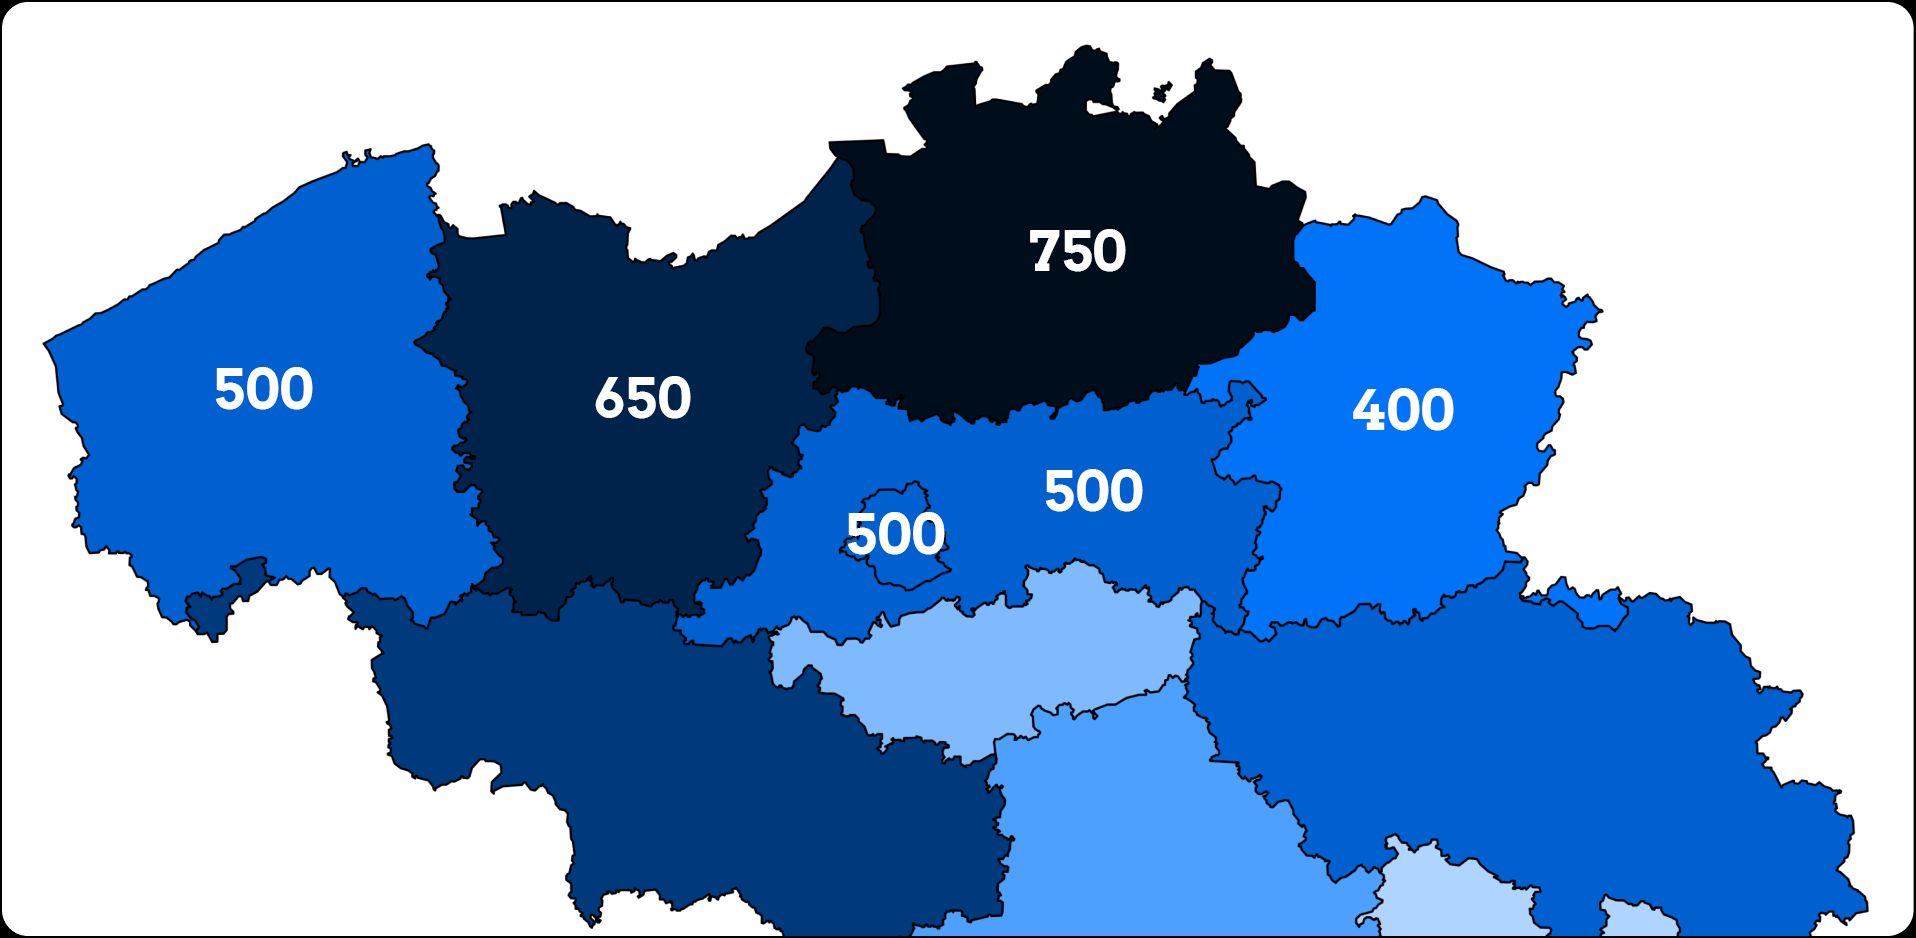
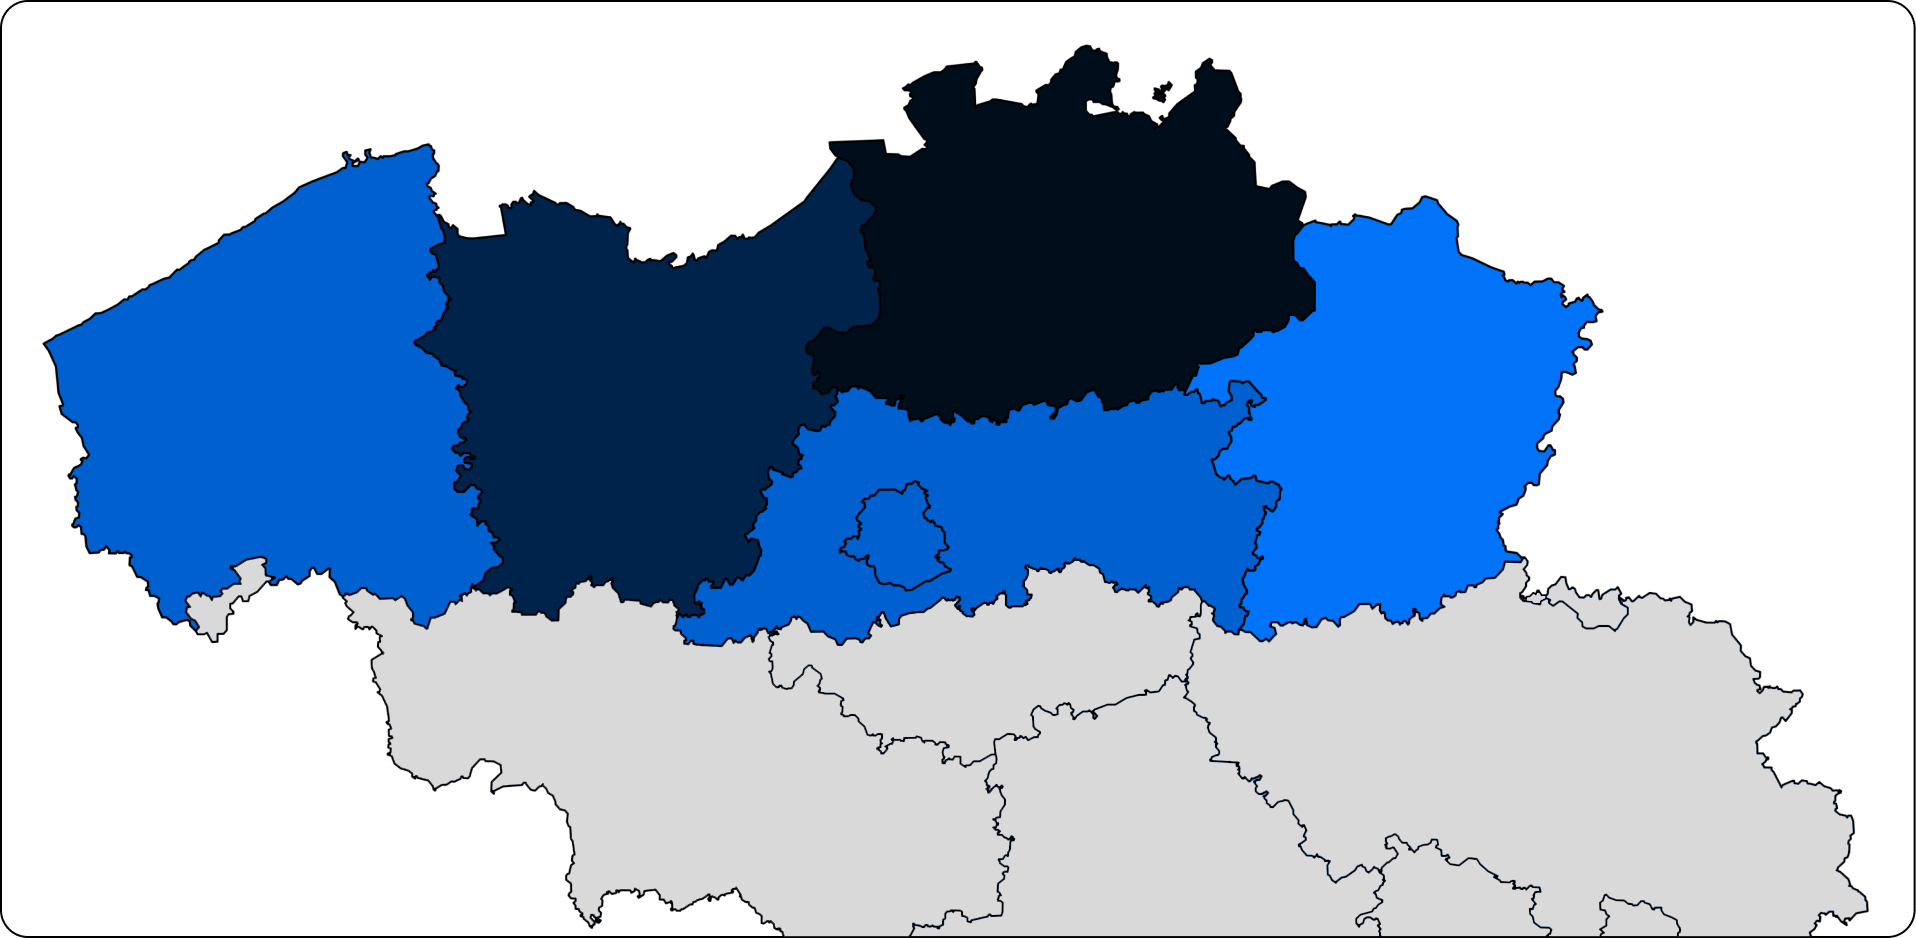
Update kaart

diff --git a/css/main.css b/css/main.css
@@ -589,7 +589,7 @@ body {
   display: grid;
   width: 100%;
   grid-template-columns: repeat(12, 1fr);
-  grid-template-rows: repeat(20, minmax(40px, auto));
+  grid-template-rows: repeat(17, minmax(40px, auto));
   text-align: right;
   border-radius: 15px;
 }
@@ -610,17 +610,16 @@ body {
 
 .deelnemen-map-search .map {
   grid-column: 3/11;
-  grid-row: 2/13;
-  border-radius: 8px;
+  grid-row: 2/12;
+  border-radius: 18px;
   overflow: hidden;
   background-color: #d1d1d1;
   border: solid;
 }
 
 .deelnemen-map-search .topright {
-
   grid-column: 7/12;
-  grid-row: 1/10;
+  grid-row: 1/13;
   z-index: -10;
 }
 
@@ -631,7 +630,7 @@ body {
 
 .deelnemen-map-search .bottomright {
   grid-column: 7/12;
-  grid-row: 10/18;
+  grid-row: 7/18;
   z-index: -10;
 }
 
@@ -642,7 +641,7 @@ body {
 
 .deelnemen-map-search .bottomleft {
   grid-column: 2/6;
-  grid-row: 12/21;
+  grid-row: 4/18;
   z-index: -10;
 }
 
@@ -651,16 +650,69 @@ body {
   height: auto;
 }
 
+.deelnemen-map-search h2{
+	color: white;
+  text-decoration: underline;
+}
+
+.oost-vlaanderen {
+  grid-column: 4/5;
+  grid-row: 5/7;
+  z-index: 200;
+  text-align: left;
+  display: flex;
+  align-items: center;
+}
+
+.west-vlaanderen {
+  grid-column: 5/6;
+  grid-row: 6/7;
+  z-index: 200;
+  text-align: right;
+  align-self: top;
+}
+
+.vlaams-brabant {
+  grid-column: 7/8;
+  grid-row: 7/8;
+  z-index: 200;
+  text-align: center;
+  align-self: top;
+}
+
+.brussel {
+  grid-column: 6/7;
+  grid-row: 7/8;
+  z-index: 200;
+  text-align: right;
+  align-self: last baseline;
+}
+
+.antwerpen {
+  grid-column: 7/8;
+  grid-row: 4/5;
+  z-index: 200;
+  text-align: center;
+  align-self: center;
+}
+
+.limburg {
+  grid-column: 8/9;
+  grid-row: 6/7;
+  z-index: 200;
+}
+
 .deelnemen-map-search .legendemap {
-  grid-column: 3/5;
-  grid-row: 14/15;
+  grid-column: 11/12;
+  grid-row: 2/4;
   text-align: center;
 }
 
 .deelnemen-map-search .legendemap-twee {
-  grid-column: 3/4;
-  grid-row: 15/20;
+  grid-column: 11/13;
+  grid-row: 4/12;
   line-height: 25px;
+  text-align: left;
 }
 
 

diff --git a/pages/deelnemen.html b/pages/deelnemen.html
@@ -11,6 +11,11 @@
 	<title>Saved by the Bell</title>
 	<link rel="manifest" href="../images/site.webmanifest" />
 	<link href="../css/main.css" rel="stylesheet" />
+	<link
+  rel="stylesheet"
+  href="https://unpkg.com/leaflet/dist/leaflet.css"
+/>
+<script src="https://unpkg.com/leaflet/dist/leaflet.js"></script>
 </head>
 
 <body>
@@ -145,6 +150,12 @@
 		</section>
 
 		<section class="deelnemen-map-search">
+			<div class="oost-vlaanderen"><a ><h2>500</h2></a></div>
+			<div class="west-vlaanderen"><h2>650</h2></div>
+			<div class="vlaams-brabant"><h2>500</h2></div>
+			<div class="brussel"><h2>500</h2></div>
+			<div class="antwerpen"><h2>750</h2></div>
+			<div class="limburg"><h2>400</h2></div>
 			<div class="maptext">
 				<p>Aantal scholen die mee doen</p>
 				<h2>5.165</h2>
@@ -156,6 +167,7 @@
 
 			<div class="map">
 				<img src="../images/kaartdeelnemers.png" alt="Kaart van deelnemende regio's">
+     <div id="map" style="width:100%; height:500px; border-radius:18px; overflow:hidden;"></div>
 			</div>
 
 			<div class="topright">
